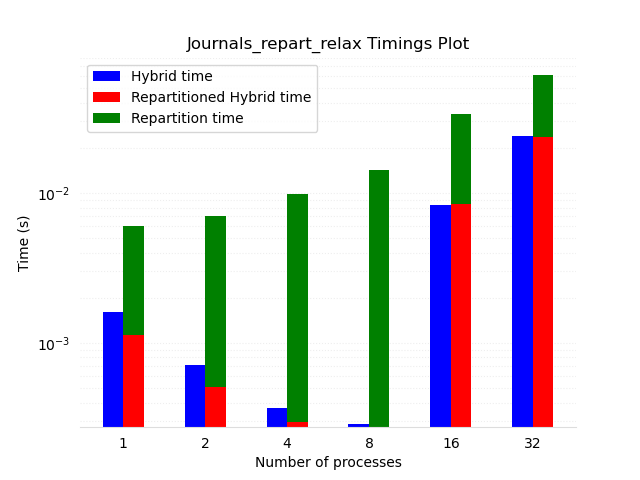
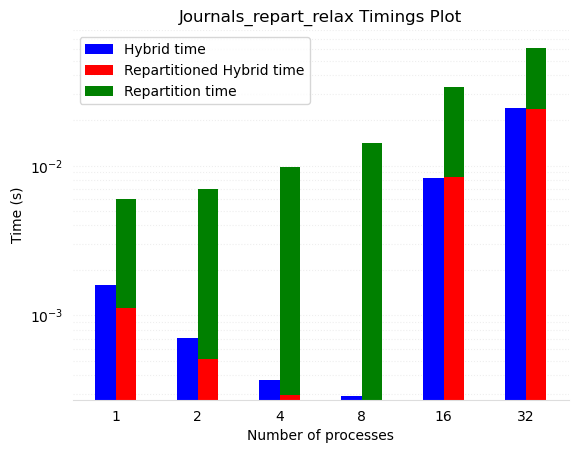
added bbox tight so the axes labels aren't cut off...

diff --git a/plots_code/generate_plot.py b/plots_code/generate_plot.py
@@ -100,7 +100,7 @@ if __name__ == "__main__":
     plt.xticks([r + offset for r in range(len(processes_array))],
                processes_array)
 
-    plt.savefig(f"{filename_prefix}_timings_plot.png")
+    plt.savefig(f"{filename_prefix}_timings_plot.png", bbox_inches="tight")
 
     #plt.close(fig)
 
@@ -158,7 +158,7 @@ if __name__ == "__main__":
     plt.xticks([r + offset for r in range(len(processes_array))],
                processes_array)
 
-    plt.savefig(f"{filename_prefix}_residual_plot.png")
+    plt.savefig(f"{filename_prefix}_residual_plot.png", bbox_inches="tight")
 
     #plt.close(fig)
 
